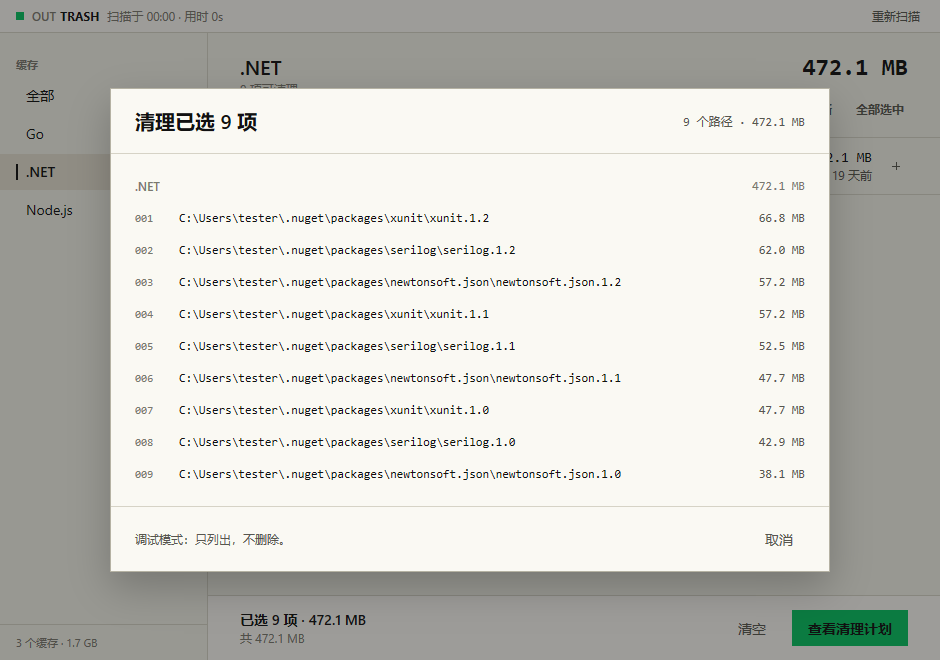
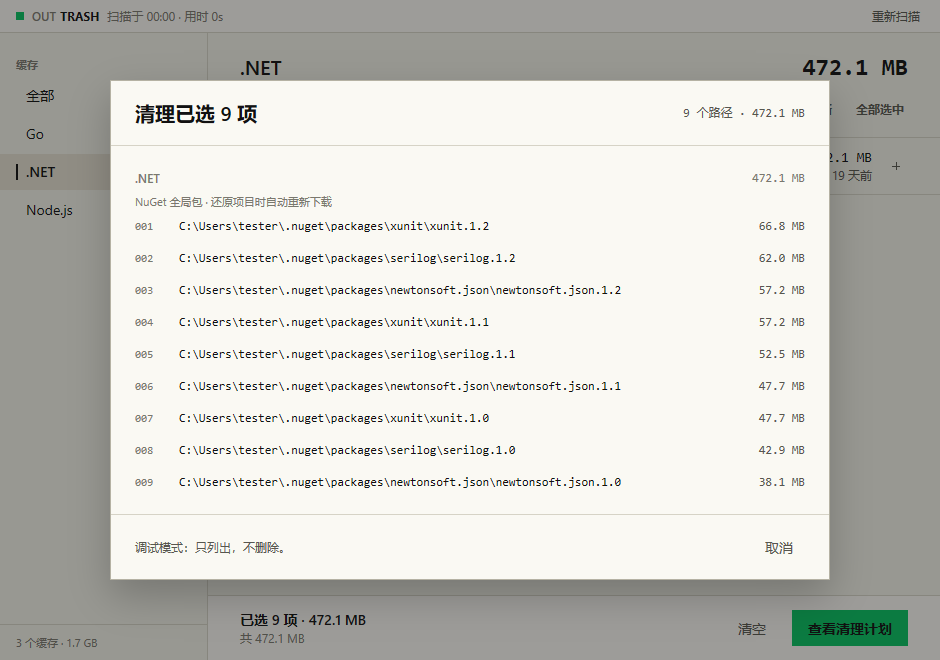
plan sheet: say how each cache comes back
rules.json already explains every cache's rebuild path, but Item.Note was
parsed and never read, so the sheet showed nine paths and one blanket
sentence. A plan group now carries the notes of the items that put steps in
it, and the sheet prints one line per cache under the group header.

Add takes the note, and Groups() returns a named PlanGroup instead of an
anonymous struct.

diff --git a/internal/core/plan.go b/internal/core/plan.go
@@ -64,6 +64,12 @@ type Plan struct {
 	Bytes int64
 	// Title says which action made the plan, for the sheet's header.
 	Title string
+	// notes carries each item's catalog note into Groups().
+	notes []noteEntry
+}
+
+type noteEntry struct {
+	group, item, note string
 }
 
 // Select decides what the policy removes from the picks.
@@ -262,12 +268,29 @@ func describe(pol Policy, chosen int) string {
 	return "清理已勾选的内容"
 }
 
+// PlanGroup is one family's share of a plan.
+type PlanGroup struct {
+	Name  string
+	Steps []Step
+	Bytes int64
+	// Items names each cache the steps came from, with the catalog's note on
+	// how that cache comes back.
+	Items []PlanItem
+}
+
+// PlanItem is one cache inside a group.
+type PlanItem struct {
+	Name string
+	Note string
+}
+
 // Add merges another plan into p, labelling its steps.
-func (p *Plan) Add(group, item string, other *Plan) {
+func (p *Plan) Add(group, item, note string, other *Plan) {
 	for _, s := range other.Steps {
 		s.Group, s.Item = group, item
 		p.Steps = append(p.Steps, s)
 	}
+	p.notes = append(p.notes, noteEntry{group: group, item: item, note: note})
 	p.Total()
 }
 
@@ -282,31 +305,28 @@ func (p *Plan) Total() *Plan {
 }
 
 // Groups lists the distinct group names in a plan, in plan order, with the
-// steps of each.
-func (p *Plan) Groups() []struct {
-	Name  string
-	Steps []Step
-	Bytes int64
-} {
-	var out []struct {
-		Name  string
-		Steps []Step
-		Bytes int64
-	}
+// steps of each and the notes of the items that put them there.
+func (p *Plan) Groups() []PlanGroup {
+	var out []PlanGroup
 	at := map[string]int{}
 	for _, s := range p.Steps {
 		i, ok := at[s.Group]
 		if !ok {
 			i = len(out)
 			at[s.Group] = i
-			out = append(out, struct {
-				Name  string
-				Steps []Step
-				Bytes int64
-			}{Name: s.Group})
+			out = append(out, PlanGroup{Name: s.Group})
 		}
 		out[i].Steps = append(out[i].Steps, s)
 		out[i].Bytes += s.Bytes
+	}
+	for _, n := range p.notes {
+		i, ok := at[n.group]
+		if !ok || n.note == "" {
+			continue
+		}
+		if !slices.ContainsFunc(out[i].Items, func(it PlanItem) bool { return it.Name == n.item }) {
+			out[i].Items = append(out[i].Items, PlanItem{Name: n.item, Note: n.note})
+		}
 	}
 	return out
 }

diff --git a/internal/core/plan_test.go b/internal/core/plan_test.go
@@ -189,9 +189,9 @@ func TestSelectKeepsNewestByVersion(t *testing.T) {
 
 func TestAddAndGroups(t *testing.T) {
 	p := &Plan{}
-	p.Add("Node", "npm", Select([]Pick{{Name: "n1", Bytes: 5, ModTime: ago(1)}}, Policy{Now: day0}))
-	p.Add("Go", "go-build", Select([]Pick{{Name: "g1", Bytes: 50, ModTime: ago(1)}}, Policy{Now: day0}))
-	p.Add("Node", "pnpm", Select([]Pick{{Name: "n2", Bytes: 20, ModTime: ago(1)}}, Policy{Now: day0}))
+	p.Add("Node", "npm", "下次安装依赖时自动重新下载", Select([]Pick{{Name: "n1", Bytes: 5, ModTime: ago(1)}}, Policy{Now: day0}))
+	p.Add("Go", "go-build", "go build 时自动重新编译", Select([]Pick{{Name: "g1", Bytes: 50, ModTime: ago(1)}}, Policy{Now: day0}))
+	p.Add("Node", "pnpm", "下次安装依赖时自动重新下载", Select([]Pick{{Name: "n2", Bytes: 20, ModTime: ago(1)}}, Policy{Now: day0}))
 
 	if !equal(names(p), []string{"g1", "n2", "n1"}) {
 		t.Fatalf("order %v", names(p))
@@ -199,6 +199,12 @@ func TestAddAndGroups(t *testing.T) {
 	g := p.Groups()
 	if len(g) != 2 || g[0].Name != "Go" || g[1].Name != "Node" || g[1].Bytes != 25 || len(g[1].Steps) != 2 {
 		t.Fatalf("groups %+v", g)
+	}
+	if len(g[1].Items) != 2 || g[1].Items[0].Note != "下次安装依赖时自动重新下载" {
+		t.Fatalf("Node items %+v, want both caches with their notes", g[1].Items)
+	}
+	if len(g[0].Items) != 1 || g[0].Items[0].Name != "go-build" {
+		t.Fatalf("Go items %+v", g[0].Items)
 	}
 	if p.Bytes != 75 {
 		t.Fatalf("bytes %d", p.Bytes)

diff --git a/sheet.go b/sheet.go
@@ -119,6 +119,13 @@ func (a *app) planSheet(c *ui.Context) {
 								ui.Text(c, g.Name).FontSize(12).FontWeight(600).TextColor(p.Ink3).Grow(1)
 								ui.Text(c, core.Bytes(g.Bytes)).Font(core.Mono()).FontSize(12).TextColor(p.Ink3)
 							})
+							// How each cache comes back is the promise the plan
+							// asks the user to believe, so it sits next to the
+							// paths rather than in a footer.
+							for _, it := range g.Items {
+								ui.Text(c, it.Name+" · "+it.Note).FontSize(11).TextColor(p.Ink3).
+									SingleLine().Padding(0, 0, 2, 0)
+							}
 							for _, s := range g.Steps {
 								n++
 								order := n

diff --git a/render_test.go b/render_test.go
@@ -117,6 +117,11 @@ func TestPlanSheetRenders(t *testing.T) {
 	if !tt.HasText("清理已选 9 项") {
 		t.Fatalf("plan sheet missing; texts %v", tt.Texts())
 	}
+	// The sheet has to say how this cache comes back; that is the whole
+	// promise behind asking for the deletion.
+	if !tt.HasText("NuGet 全局包 · 还原项目时自动重新下载") {
+		t.Fatalf("item note missing from the sheet; texts %v", tt.Texts())
+	}
 }
 
 func TestSelectionAndDebug(t *testing.T) {

diff --git a/cards.go b/cards.go
@@ -336,7 +336,7 @@ func (a *app) selectedPlan() *core.Plan {
 			if len(picks) == 0 {
 				continue
 			}
-			p.Add(g.group.Name, it.item.Name, core.Select(picks, core.Policy{Now: a.now}))
+			p.Add(g.group.Name, it.item.Name, it.item.Note, core.Select(picks, core.Policy{Now: a.now}))
 		}
 	}
 	p.Title = fmt.Sprintf("清理已选 %d 项", len(p.Steps))
